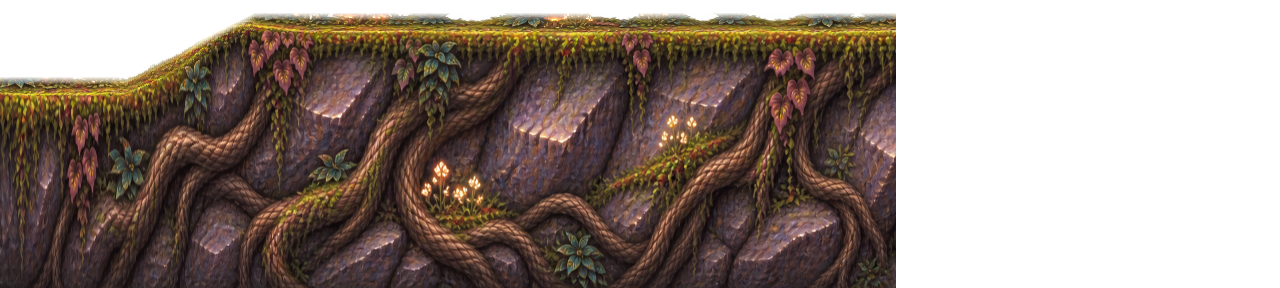
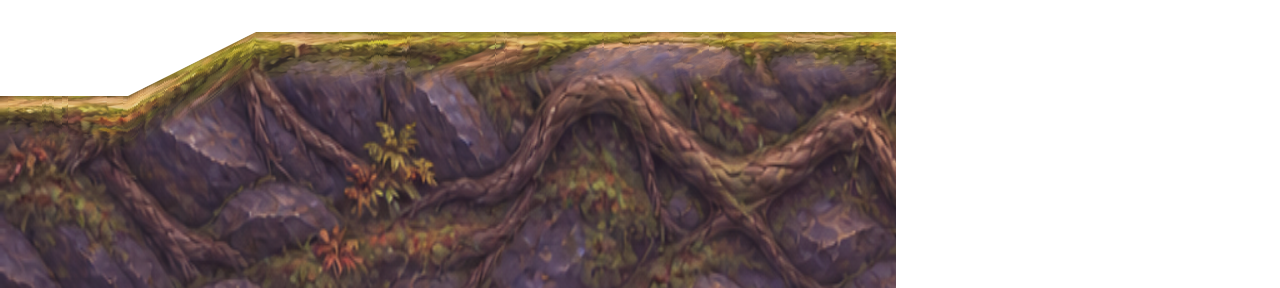
art: integrate continuous central Lanterns terrain master

diff --git a/docs/ORGANIC-TERRAIN.md b/docs/ORGANIC-TERRAIN.md
@@ -138,3 +138,7 @@ Grupo `1-1/group_011_012` no mapa final: origem (12736,608), 1600×160 RGBA, pis
 
 ## Piloto 41: massa conectada central do Vale do Coração
 Grupo `1-1/group_002_010`, 11456×544 RGBA, origem (1280,224), nove recortes. Nova pintura gerada de rochas, musgo e raízes combinada com a faixa pintada anterior por projeção contínua em coordenadas do mundo, reflexões e mistura de profundidade. O resultado é uma composição derivada, não uma ilustração manual inédita de cada metro; repetições e bordas retas da geometria ainda precisam de revisão estética. A máscara preserva 1966080 pixels sólidos opacos e 4265984 pixels transparentes. Oito emendas com diferença RGB máxima zero nos PNGs nas regiões de contato; simulação WebP local Pillow quality 84: máximo 20, maior média 4,57. Um desnível real de 64 pixels entre chunks 004/005 exige comparação de alfa guiada pela máscara; a validação em runtime e no importador só permite divergência comprovada por sólido/vazio, com alfa correspondente. Os nove arquivos foram transferidos com hashes de blob idênticos. A suite de runtime exige aceitação dos onze recortes dos dois masters, paridade física e capturas distribuídas. Nenhuma mudança de LevelData, física, fundos ou entidades. A fase 1-1 passa a ter todos os doze arquivos de terreno previstos, mas aceitação em jogo e aprovação estética ainda dependem de CI e playtest.
+
+
+## Piloto 42: massa central da Trilha das Lanternas
+Grupo `1-2/group_003_007`, origem (2304,864), 6400×544. Pintura inédita de rocha, raízes e vegetação combinada com a faixa de contato existente, reprojetada em coordenadas contínuas e recortada pela máscara exportada. 1159104 pixels sólidos opacos, 2322368 transparentes, nenhum vazamento. Quatro emendas em simulação WebP Pillow quality 84: diferenças máximas 10/18/15/12, médias 4,41/4,78/4,32/4,57; zero discrepâncias de alfa em desníveis. Cinco PNGs com hashes de blob conferidos. Chunks 003–006 inéditos e 007 substituído pela composição comum, preservando seu histórico. O teste agora exige aceitação 001–007, ausência do overlay provisório e paridade física, com capturas adicionais. A projeção usa reflexões e mistura de materiais; ainda há repetição e pequenas distorções, especialmente nas ilhas, a revisar em jogo. Grupo 008–013 continua pendente. Nenhuma mudança de geometria, física, entidades ou fundos. O CI deve confirmar a conversão Sharp e aceitação real.
